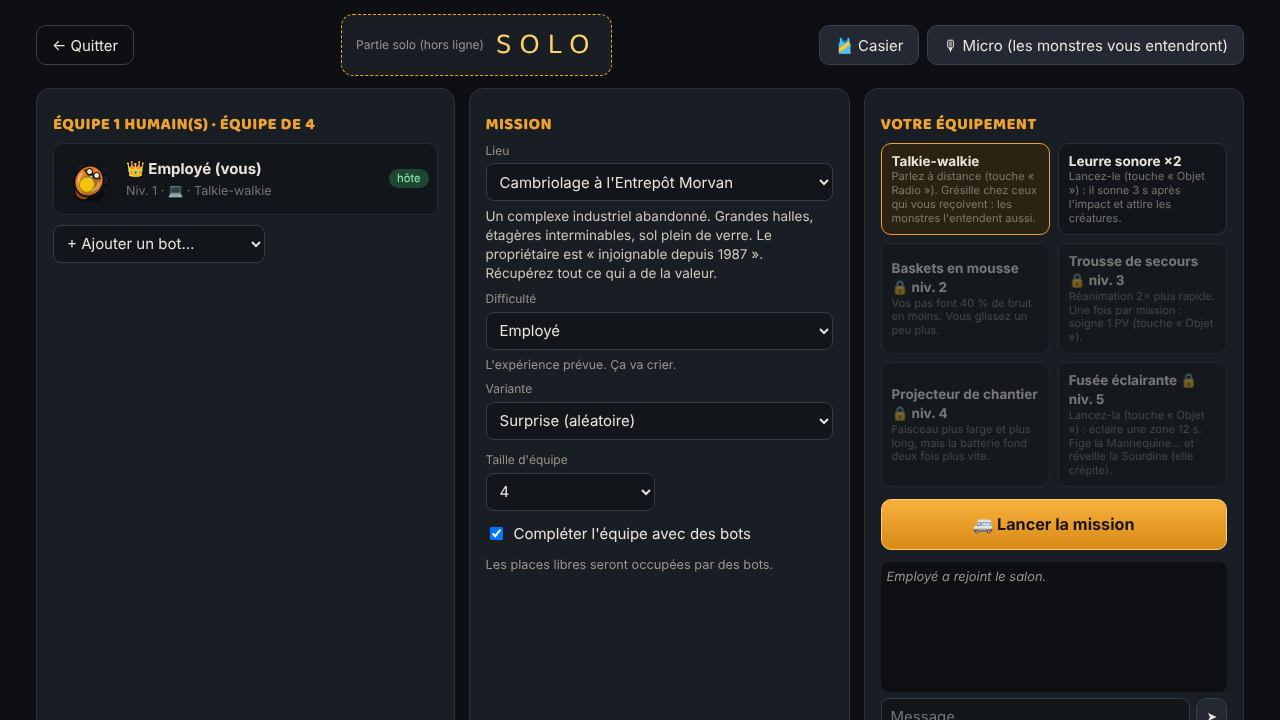
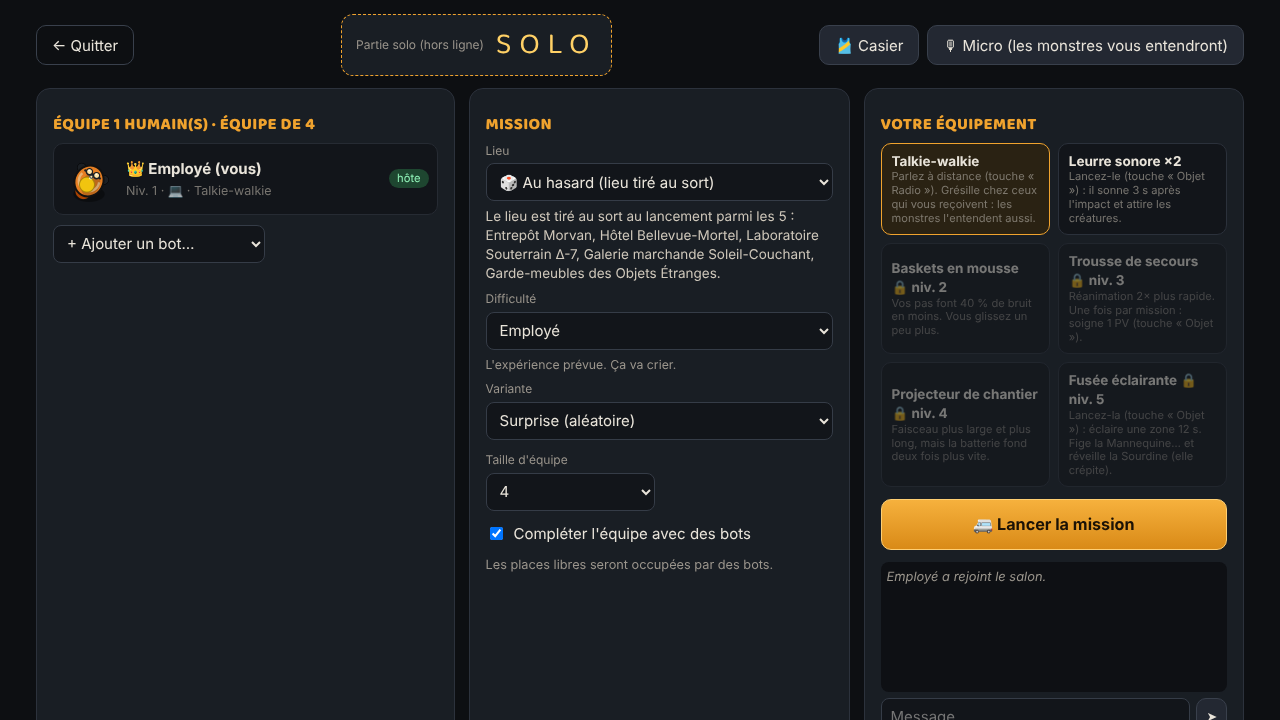
Moins sombre, portes bien placées, deux nouveaux lieux et lieu au hasard
- Lumière : éclairage ambiant, lampes et lampe torche plus forts, brouillard plus léger,
  vignette réduite ; réglage « Luminosité » (3D) ; voile d'obscurité allégé (web)
- Portes : placées au milieu du pan de mur (plus collées aux angles), charnière sur la
  face du mur et porte ouverte rabattue à plat contre le mur au lieu de rester au milieu
  de la pièce ; même placement dans le générateur web et 3D (parité vérifiée)
- Nouveaux lieux : galerie marchande Soleil-Couchant (grande allée, boutiques) et
  garde-meubles des Objets Étranges (rangées de box, deux allées)
- « Au hasard » (par défaut) : le lieu est tiré au sort à partir de la graine de la
  partie, identique sur le serveur, le web et la 3D
- 3D : un coéquipier collé à la caméra est masqué ; objet porté à hauteur des lunettes

Claude-Session: https://claude.ai/code/session_01LYPPgPpBx7XZLi1K5NUTky

Changed region(s): [[0.375, 0.2444, 0.6562, 0.3972]]

diff --git a/client/ui/lobby.js b/client/ui/lobby.js
@@ -105,7 +105,7 @@ export class LobbyUI {
     // réglages
     const lvl = app.profile.level.level;
     const s = st.settings;
-    fillSelect($('set-mission'), Object.entries(MISSIONS).map(([id, m]) => ({ v: id, t: `${m.name}${lvl < m.unlockLevel && host ? ` (niv. ${m.unlockLevel})` : ''}`, dis: host && lvl < m.unlockLevel })), s.mission);
+    fillSelect($('set-mission'), [{ v: 'random', t: '🎲 Au hasard (lieu tiré au sort)' }, ...Object.entries(MISSIONS).map(([id, m]) => ({ v: id, t: `${m.name}${lvl < m.unlockLevel && host ? ` (niv. ${m.unlockLevel})` : ''}`, dis: host && lvl < m.unlockLevel }))], s.mission);
     fillSelect($('set-difficulty'), Object.entries(DIFFICULTIES).map(([id, d]) => ({ v: id, t: `${d.name}${host && d.level >= 3 && lvl < 3 ? ' (niv. 3)' : ''}`, dis: host && d.level >= 3 && lvl < 3 })), s.difficulty);
     fillSelect($('set-variant'), [{ v: 'random', t: 'Surprise (aléatoire)' }, ...VARIANTS.map((v) => ({ v: v.id, t: v.name }))], s.variant);
     fillSelect($('set-teamsize'), Array.from({ length: LIMITS.absoluteMaxPlayers }, (_, i) => ({ v: String(i + 1), t: `${i + 1}` })), String(s.teamSize));
@@ -114,7 +114,8 @@ export class LobbyUI {
     $('set-locked').checked = s.locked;
     for (const id of ['set-mission', 'set-difficulty', 'set-variant', 'set-teamsize', 'set-maxplayers', 'set-fillbots', 'set-locked']) $(id).disabled = !host;
     const mission = MISSIONS[s.mission];
-    $('mission-brief').textContent = `${THEMES[mission.theme]?.blurb || ''} ${mission.brief}`;
+    $('mission-brief').textContent = mission ? `${THEMES[mission.theme]?.blurb || ''} ${mission.brief}`
+      : `Le lieu est tiré au sort au lancement parmi les ${Object.keys(MISSIONS).length} : ${Object.values(MISSIONS).map((m) => THEMES[m.theme]?.name).join(', ')}.`;
     $('difficulty-desc').textContent = DIFFICULTIES[s.difficulty]?.desc || '';
     $('settings-note').textContent = host ? (s.fillBots ? 'Les places libres seront occupées par des bots.' : '') : 'Seul l\'hôte peut modifier la mission.';
 

diff --git a/shared/data/themes.js b/shared/data/themes.js
@@ -29,4 +29,22 @@ export const THEMES = {
     lootCount: 38,
     palette: { floor: '#2b3436', floor2: '#283134', wall: '#46545a', wallTop: '#6f8890', shelf: '#4f5d63', table: '#59666b', debris: '#9fb0b0', grate: '#556a70', fog: '4,10,10', accent: '#58e0c0' },
   },
+  mall: {
+    name: 'Galerie marchande Soleil-Couchant',
+    blurb: 'Un centre commercial plongé dans le noir. Une grande allée, des boutiques aux rideaux à moitié levés, des escalators à l\'arrêt.',
+    layout: { cellsX: 7, cellsY: 5, cellSize: 8, mergeChance: 0.3, extraLinks: 0.45, doorChance: 0.35, wideChance: 0.6, corridorRows: [2] },
+    props: { shelfRows: 0.6, tables: 0.45, debris: 0.35, grates: 0.1, lockers: 0.45, lamps: 0.3 },
+    loot: { tv: 3, statue: 2, clock: 2, trophy: 2, gnome: 2, painting: 1, bottle: 2, suitcase: 2, radio_old: 2, vase: 1, toolbox: 1, junk: 3 },
+    lootCount: 40,
+    palette: { floor: '#3b3f44', floor2: '#363a3f', wall: '#5d6670', wallTop: '#8b97a3', shelf: '#7a6a58', table: '#4e5560', debris: '#a4acb4', grate: '#4c5560', fog: '6,8,12', accent: '#ff6fae' },
+  },
+  storage: {
+    name: 'Garde-meubles des Objets Étranges',
+    blurb: 'Des box de stockage numérotés à perte de vue. Certains cadenas sont fermés de l\'intérieur.',
+    layout: { cellsX: 7, cellsY: 6, cellSize: 6, mergeChance: 0.12, extraLinks: 0.25, doorChance: 0.85, wideChance: 0.15, corridorRows: [1, 4] },
+    props: { shelfRows: 0.55, tables: 0.3, debris: 0.3, grates: 0.2, lockers: 0.7, lamps: 0.4 },
+    loot: { jar: 2, chandelier: 1, piano: 1, statue: 2, safe: 2, painting: 2, clock: 2, gnome: 2, vase: 2, crate: 3, suitcase: 2, junk: 2 },
+    lootCount: 40,
+    palette: { floor: '#3d3a33', floor2: '#38352f', wall: '#6a6152', wallTop: '#938770', shelf: '#5b4a35', table: '#5a5045', debris: '#9a8f80', grate: '#4f5652', fog: '10,9,6', accent: '#f2c14e' },
+  },
 };

diff --git a/shared/data/missions.js b/shared/data/missions.js
@@ -34,7 +34,35 @@ export const MISSIONS = {
     required: ['echo'],
     unlockLevel: 3,
   },
+  soleil: {
+    name: 'Soldes à la galerie Soleil-Couchant',
+    theme: 'mall',
+    brief: 'Le centre a fermé un soir de soldes et n\'a jamais rouvert. Les vitrines attendent toujours leurs clients.',
+    quota: 1850, time: 560,
+    monsterPool: ['mannequine', 'echo', 'sauveteur', 'sourdine', 'invite', 'inspecteur', 'berger', 'demenageur'],
+    required: ['mannequine'],
+    unlockLevel: 1,
+  },
+  gardemeubles: {
+    name: 'Vide-box au Garde-meubles',
+    theme: 'storage',
+    brief: 'Les loyers des box ne sont plus payés depuis longtemps. Ce qu\'il y a dedans est à nous. En principe.',
+    quota: 1800, time: 540,
+    monsterPool: ['demenageur', 'berger', 'invite', 'sourdine', 'mannequine', 'echo', 'inspecteur', 'sauveteur'],
+    required: ['demenageur'],
+    unlockLevel: 1,
+  },
 };
+
+// « Au hasard » : le lieu est tiré au sort à partir de la graine de la partie (même résultat
+// sur le serveur, dans le navigateur et dans la version 3D).
+export const RANDOM_MISSION = 'random';
+export function resolveMissionId(id, seed) {
+  if (MISSIONS[id]) return id;
+  if (id !== RANDOM_MISSION) return 'morvan';
+  const ids = Object.keys(MISSIONS);
+  return ids[Math.abs(seed | 0) % ids.length];
+}
 
 // Variantes tirées au hasard au lancement (modifient les règles de la mission).
 export const VARIANTS = [

diff --git a/shared/room/room.js b/shared/room/room.js
@@ -41,7 +41,7 @@ export class Room {
     this.clients = new Map();             // clientId → memberId
     this.state = 'lobby';
     this.settings = {
-      mission: 'morvan', difficulty: 'employe', variant: 'random',
+      mission: 'random', difficulty: 'employe', variant: 'random',
       teamSize: 4, fillBots: true, bots: [], maxPlayers: Math.min(opts.maxPlayers || LIMITS.defaultMaxPlayers, LIMITS.absoluteMaxPlayers),
       locked: false,
     };
@@ -215,7 +215,7 @@ export class Room {
       case 'settings': {
         if (!isHost) return this.send(clientId, { t: 'error', msg: 'Seul l\'hôte peut modifier les réglages.' });
         const s = this.settings;
-        if (msg.mission && MISSIONS[msg.mission]) s.mission = msg.mission;
+        if (msg.mission && (MISSIONS[msg.mission] || msg.mission === 'random')) s.mission = msg.mission;
         if (msg.difficulty && DIFFICULTIES[msg.difficulty]) s.difficulty = msg.difficulty;
         if (msg.variant) s.variant = msg.variant;
         if (msg.teamSize) s.teamSize = Math.max(1, Math.min(LIMITS.absoluteMaxPlayers, msg.teamSize | 0));

diff --git a/shared/sim/game.js b/shared/sim/game.js
@@ -5,7 +5,7 @@ import { makeRng } from '../util/rng.js';
 import { dist, angleTo, clamp } from '../util/math.js';
 import { generateMap, serializeMap } from '../map/generator.js';
 import { T, moveCircle, collides, unstick } from '../map/grid.js';
-import { MISSIONS, DIFFICULTIES, VARIANTS, SIDE_OBJECTIVES } from '../data/missions.js';
+import { MISSIONS, resolveMissionId, DIFFICULTIES, VARIANTS, SIDE_OBJECTIVES } from '../data/missions.js';
 import { EQUIPMENT } from '../data/equipment.js';
 import { BOT_PROFILES } from '../data/bots.js';
 import { MONSTERS } from '../data/monsters.js';
@@ -24,7 +24,7 @@ export class Game {
   constructor(opts) {
     this.seed = opts.seed ?? (Math.random() * 2 ** 31) | 0;
     this.rng = makeRng(this.seed ^ 0x5bd1e995);
-    this.missionId = MISSIONS[opts.missionId] ? opts.missionId : 'morvan';
+    this.missionId = resolveMissionId(opts.missionId, this.seed);
     this.missionDef = MISSIONS[this.missionId];
     this.diffId = DIFFICULTIES[opts.difficulty] ? opts.difficulty : 'employe';
     this.diff = DIFFICULTIES[this.diffId];

diff --git a/shared/map/generator.js b/shared/map/generator.js
@@ -48,7 +48,10 @@ export function generateMap(themeId, seed, opts = {}) {
       return null;
     }
     const k = mode === 'wide' ? 2 : 1;
-    const start = rng.int(1, cells.length - 1 - k);
+    let start = rng.int(1, cells.length - 1 - k);
+    // une porte se place au milieu du pan de mur (jamais collée à un angle) ; le tirage
+    // est conservé pour garder la même suite aléatoire
+    if (mode === 'door') start = Math.floor((cells.length - k) / 2);
     const placed = [];
     for (let i = 0; i < k; i++) {
       const [x, y] = cells[start + i];

diff --git a/client/render/renderer.js b/client/render/renderer.js
@@ -316,7 +316,7 @@ export class Renderer {
     d.globalCompositeOperation = 'source-over';
     const fog = this.theme.palette.fog;
     const reveal = v.mods.rv;
-    d.fillStyle = reveal ? `rgba(${fog},0.25)` : `rgba(${fog},${v.me?.dead ? 0.8 : 0.955})`;
+    d.fillStyle = reveal ? `rgba(${fog},0.25)` : `rgba(${fog},${v.me?.dead ? 0.7 : 0.82})`;
     d.fillRect(0, 0, this.w, this.h);
     d.globalCompositeOperation = 'destination-out';
     const rays = this.q.rays;
